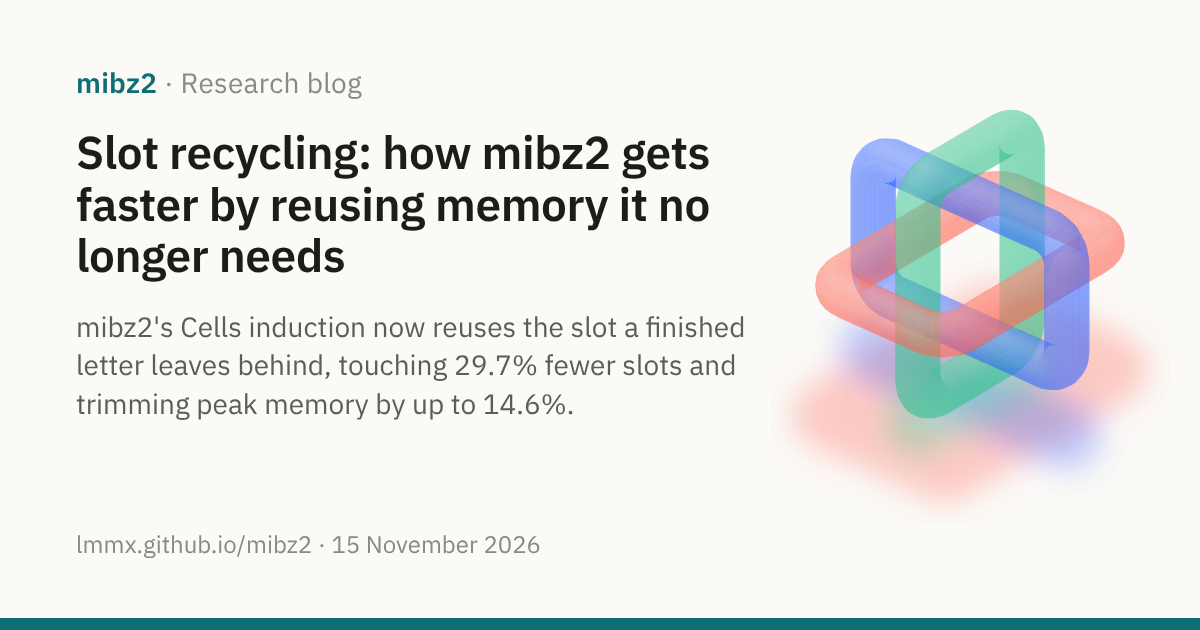
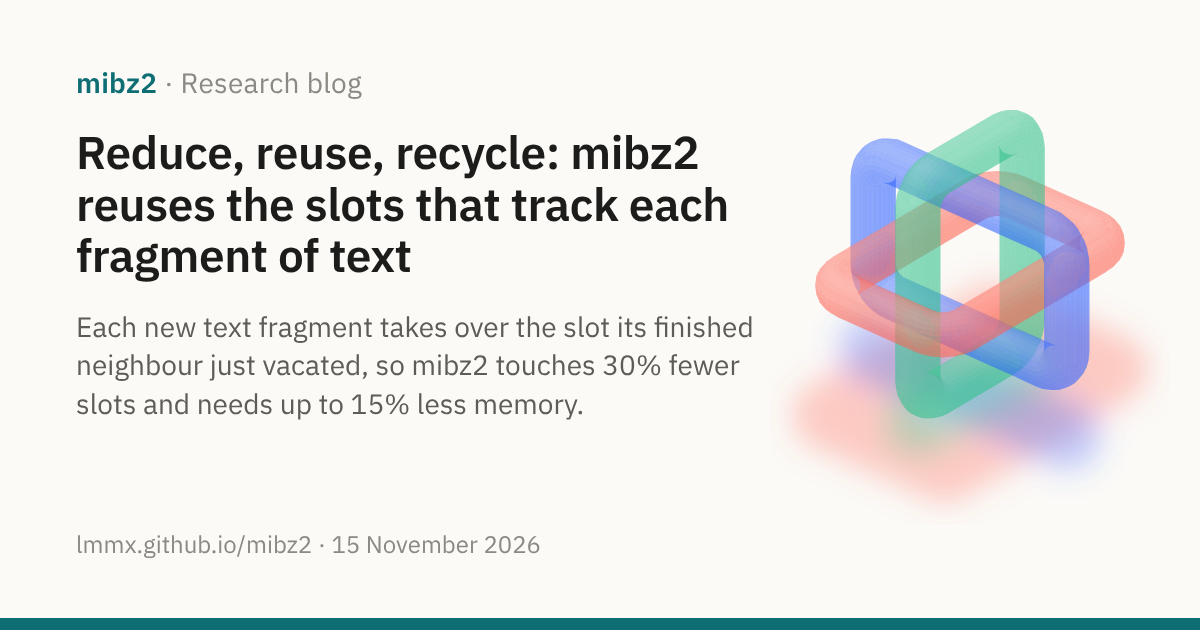
Blog: slot recycling post retitled (reduce, reuse, recycle), a plain opening, the i9 run, terms defined, figure lead-ins and fixes

Changed region(s): [[0.0617, 0.2111, 0.6167, 0.4524], [0.0617, 0.4825, 0.6475, 0.6635]]

diff --git a/docs/site/blog/2026-11-15-slot-recycling.md b/docs/site/blog/2026-11-15-slot-recycling.md
@@ -1,7 +1,7 @@
 ---
-title: "Slot recycling: how mibz2 gets faster by reusing memory it no longer needs"
+title: "Reduce, reuse, recycle: mibz2 reuses the slots that track each fragment of text"
 image: assets/social/blog-2026-11-15-slot-recycling.png
-description: "mibz2's Cells induction now reuses the slot a finished letter leaves behind, touching 29.7% fewer slots and trimming peak memory by up to 14.6%."
+description: "Each new text fragment takes over the slot its finished neighbour just vacated, so mibz2 touches 30% fewer slots and needs up to 15% less memory."
 ---
 
 <div class="post-hero" markdown>
@@ -11,9 +11,9 @@ description: "mibz2's Cells induction now reuses the slot a finished letter leav
 [mibz2 · Research blog](index.md)
 {: .post-kicker }
 
-# Slot recycling: how mibz2 gets faster by reusing memory it no longer needs
+# Reduce, reuse, recycle: mibz2 reuses the slots that track each fragment of text
 
-mibz2's Cells induction now reuses the slot a finished letter leaves behind, touching 29.7% fewer slots and trimming peak memory by up to 14.6%.
+Each new text fragment takes over the slot its finished neighbour just vacated, so mibz2 touches 30% fewer slots and needs up to 15% less memory.
 {: .post-dek }
 
 15 November 2026 · 13 min read · [Research result](#7-what-the-benchmarks-tell-us)
@@ -24,6 +24,8 @@ mibz2's Cells induction now reuses the slot a finished letter leaves behind, tou
 <div class="post-hero-art"><img src="../assets/images/hero.svg" alt=""></div>
 
 </div>
+
+One of mibz2's ways of rebuilding a block of bzip2 text works on fragments of it: pieces of the output, each standing for a stretch of the block. It keeps the bookkeeping for every fragment in a small record called a slot, 20 bytes holding the fragment's length, where its text is kept, the slot before it, and its partner slot in a second arrangement of the same fragments. When one fragment is finished, its slot is free just as the next fragment needs one, and mibz2 now hands it over instead of taking fresh memory.
 
 ## The idea in a nutshell
 
@@ -88,6 +90,8 @@ These aren't two complete copies of the decompressed text. They're two linked ar
 
 Each letter has a slot in each order.
 
+Here are both orders for a handful of letters, with each letter's two slots joined:
+
 <figure class="bf-fig">
 <p class="bf-title">Two linked orders of the same letters</p>
 <svg viewBox="0 0 720 312" role="img" aria-label="The top order holds the letters in one arrangement and the bottom order in another. Each letter has one slot in each order, and a dashed partner link joins the two. Each slot links to the slot before it, and the induction reads both orders from their fronts: A on top, B on the bottom."><text x="0" y="66" class="bf-ts">Top order</text><text x="0" y="84" class="bf-tm">A is at its front</text><text x="0" y="184" class="bf-ts">Bottom order</text><text x="0" y="202" class="bf-tm">B is at its front</text><text x="612.0" y="24" class="bf-tm" text-anchor="middle">front: read first</text><path d="M612.0 30V40" class="bf-arrow"/><text x="612.0" y="246" class="bf-tm" text-anchor="middle">front: read first</text><path d="M612.0 236V226" class="bf-arrow"/><path d="M282.0 92L502.0 166" class="bf-arrow" stroke-dasharray="4 4"/><path d="M392.0 92L282.0 166" class="bf-arrow" stroke-dasharray="4 4"/><path d="M502.0 92L612.0 166" class="bf-arrow" stroke-dasharray="4 4"/><path d="M612.0 92L392.0 166" class="bf-arrow" stroke-dasharray="4 4"/><text x="172.0" y="75" class="bf-tl" text-anchor="middle">…</text><rect x="240" y="46" width="84" height="44" rx="6" class="bf-slot"/><text x="282.0" y="74" class="bf-ts" text-anchor="middle">D</text><rect x="350" y="46" width="84" height="44" rx="6" class="bf-slot"/><text x="392.0" y="74" class="bf-ts" text-anchor="middle">C</text><rect x="460" y="46" width="84" height="44" rx="6" class="bf-slot"/><text x="502.0" y="74" class="bf-ts" text-anchor="middle">B</text><rect x="570" y="46" width="84" height="44" rx="6" class="bf-slot"/><text x="612.0" y="74" class="bf-ts" text-anchor="middle">A</text><path d="M237 68H217m5-5-5 5 5 5" class="bf-arrow"/><path d="M347 68H327m5-5-5 5 5 5" class="bf-arrow"/><path d="M457 68H437m5-5-5 5 5 5" class="bf-arrow"/><path d="M567 68H547m5-5-5 5 5 5" class="bf-arrow"/><text x="172.0" y="197" class="bf-tl" text-anchor="middle">…</text><rect x="240" y="168" width="84" height="44" rx="6" class="bf-slot"/><text x="282.0" y="196" class="bf-ts" text-anchor="middle">C</text><rect x="350" y="168" width="84" height="44" rx="6" class="bf-slot"/><text x="392.0" y="196" class="bf-ts" text-anchor="middle">A</text><rect x="460" y="168" width="84" height="44" rx="6" class="bf-slot"/><text x="502.0" y="196" class="bf-ts" text-anchor="middle">D</text><rect x="570" y="168" width="84" height="44" rx="6" class="bf-slot"/><text x="612.0" y="196" class="bf-ts" text-anchor="middle">B</text><path d="M237 190H217m5-5-5 5 5 5" class="bf-arrow"/><path d="M347 190H327m5-5-5 5 5 5" class="bf-arrow"/><path d="M457 190H437m5-5-5 5 5 5" class="bf-arrow"/><path d="M567 190H547m5-5-5 5 5 5" class="bf-arrow"/><path d="M0 278H704" class="bf-rule"/><path d="M26 300H4m5-5-5 5 5 5" class="bf-arrow"/><text x="34" y="304" class="bf-tm">each slot links to the slot before it in its order</text><path d="M366 300H392" class="bf-arrow" stroke-dasharray="4 4"/><text x="400" y="304" class="bf-tm">partner: the same letter’s slot in the other order</text></svg>
@@ -103,9 +107,11 @@ A slot is a small record in memory. In the implementation shipped before this ch
 | Word reference and length | Identifies the text represented by the piece |
 | Partner-slot reference | Connects its position in one order to the corresponding position in the other |
 
+The slot's five fields, as the code lays them out:
+
 <figure class="bf-fig">
 <p class="bf-title">A slot is 20 bytes: five 4-byte fields</p>
-<svg viewBox="0 0 720 250" role="img" aria-label="A slot of 20 bytes, five fields of 4 bytes each: bytes 0 to 4 the slot before it in its order; 4 to 8 the letter's length; 8 to 12 its word's length; 12 to 16 its word's offset; 16 to 20 the letter's slot in the other order. Bytes 8 to 16 are read as one 8-byte load. A 64-byte cache line holds 3.2 slots."><text x="40" y="22" class="bf-ttiny" text-anchor="middle">0</text><text x="168" y="22" class="bf-ttiny" text-anchor="middle">4</text><text x="296" y="22" class="bf-ttiny" text-anchor="middle">8</text><text x="424" y="22" class="bf-ttiny" text-anchor="middle">12</text><text x="552" y="22" class="bf-ttiny" text-anchor="middle">16</text><text x="680" y="22" class="bf-ttiny" text-anchor="middle">20</text><text x="32" y="22" class="bf-ttiny" text-anchor="end">byte</text><rect x="41" y="30" width="126" height="58" rx="5" class="bf-slot"/><text x="104" y="55" class="bf-ts" text-anchor="middle">slot before</text><text x="104" y="74" class="bf-tm" text-anchor="middle">4 B · link in its order</text><rect x="169" y="30" width="126" height="58" rx="5" class="bf-slot"/><text x="232" y="55" class="bf-ts" text-anchor="middle">letter’s length</text><text x="232" y="74" class="bf-tm" text-anchor="middle">4 B · positions left</text><rect x="297" y="30" width="126" height="58" rx="5" class="bf-slot"/><text x="360" y="55" class="bf-ts" text-anchor="middle">word’s length</text><text x="360" y="74" class="bf-tm" text-anchor="middle">4 B · in bytes</text><rect x="425" y="30" width="126" height="58" rx="5" class="bf-slot"/><text x="488" y="55" class="bf-ts" text-anchor="middle">word’s offset</text><text x="488" y="74" class="bf-tm" text-anchor="middle">4 B · bytes or a rule</text><rect x="553" y="30" width="126" height="58" rx="5" class="bf-slot"/><text x="616" y="55" class="bf-ts" text-anchor="middle">partner slot</text><text x="616" y="74" class="bf-tm" text-anchor="middle">4 B · in the other order</text><path d="M298 96V104H550V96M424.0 104V110" class="bf-arrow"/><text x="424.0" y="126" class="bf-tm" text-anchor="middle">the word: read as one 8-byte load</text><text x="360" y="150" class="bf-t-strong" text-anchor="middle">20 bytes, five 4-byte fields</text><path d="M0 172H720" class="bf-rule"/><text x="0" y="196" class="bf-ts">A 64-byte cache line</text><text x="0" y="214" class="bf-tm">holds 3.2 slots, so slots straddle lines</text><rect x="271" y="182" width="138" height="30" rx="4" class="bf-slot"/><text x="340" y="201" class="bf-tm" text-anchor="middle">slot 1</text><rect x="411" y="182" width="138" height="30" rx="4" class="bf-slot"/><text x="480" y="201" class="bf-tm" text-anchor="middle">slot 2</text><rect x="551" y="182" width="138" height="30" rx="4" class="bf-slot"/><text x="620" y="201" class="bf-tm" text-anchor="middle">slot 3</text><rect x="691" y="182" width="26" height="30" rx="4" class="bf-slot"/><rect x="717" y="182" width="84" height="30" rx="4" class="bf-track"/><path d="M270 218V224H718V218" class="bf-arrow"/><text x="494" y="240" class="bf-tm" text-anchor="middle">64 bytes</text><text x="760" y="201" class="bf-ttiny" text-anchor="middle">next line</text></svg>
+<svg viewBox="0 0 720 250" role="img" aria-label="A slot of 20 bytes, five fields of 4 bytes each: bytes 0 to 4 the slot before it in its order; 4 to 8 the letter's length; 8 to 12 its word's length; 12 to 16 its word's offset; 16 to 20 the letter's slot in the other order. Bytes 8 to 16 are read as one 8-byte load. A 64-byte cache line holds 3.2 slots."><text x="40" y="22" class="bf-ttiny" text-anchor="middle">0</text><text x="168" y="22" class="bf-ttiny" text-anchor="middle">4</text><text x="296" y="22" class="bf-ttiny" text-anchor="middle">8</text><text x="424" y="22" class="bf-ttiny" text-anchor="middle">12</text><text x="552" y="22" class="bf-ttiny" text-anchor="middle">16</text><text x="680" y="22" class="bf-ttiny" text-anchor="middle">20</text><text x="32" y="22" class="bf-ttiny" text-anchor="end">byte</text><rect x="41" y="30" width="126" height="58" rx="5" class="bf-slot"/><text x="104" y="55" class="bf-ts" text-anchor="middle">slot before</text><text x="104" y="74" class="bf-tm" text-anchor="middle">4 B · link in its order</text><rect x="169" y="30" width="126" height="58" rx="5" class="bf-slot"/><text x="232" y="55" class="bf-ts" text-anchor="middle">letter’s length</text><text x="232" y="74" class="bf-tm" text-anchor="middle">4 B · positions left</text><rect x="297" y="30" width="126" height="58" rx="5" class="bf-slot"/><text x="360" y="55" class="bf-ts" text-anchor="middle">word’s length</text><text x="360" y="74" class="bf-tm" text-anchor="middle">4 B · in bytes</text><rect x="425" y="30" width="126" height="58" rx="5" class="bf-slot"/><text x="488" y="55" class="bf-ts" text-anchor="middle">word’s offset</text><text x="488" y="74" class="bf-tm" text-anchor="middle">4 B · bytes or a rule</text><rect x="553" y="30" width="126" height="58" rx="5" class="bf-slot"/><text x="616" y="55" class="bf-ts" text-anchor="middle">partner slot</text><text x="616" y="74" class="bf-tm" text-anchor="middle">4 B · in the other order</text><path d="M298 96V104H550V96M424.0 104V110" class="bf-arrow"/><text x="424.0" y="126" class="bf-tm" text-anchor="middle">the word: read as one 8-byte load</text><text x="360" y="150" class="bf-t-strong" text-anchor="middle">20 bytes, five 4-byte fields</text><path d="M0 172H720" class="bf-rule"/><text x="0" y="196" class="bf-ts">A 64-byte cache line</text><text x="0" y="214" class="bf-tm">holds 3.2 slots, so slots straddle lines</text><rect x="251" y="182" width="118" height="30" rx="4" class="bf-slot"/><text x="310" y="201" class="bf-tm" text-anchor="middle">slot 1</text><rect x="371" y="182" width="118" height="30" rx="4" class="bf-slot"/><text x="430" y="201" class="bf-tm" text-anchor="middle">slot 2</text><rect x="491" y="182" width="118" height="30" rx="4" class="bf-slot"/><text x="550" y="201" class="bf-tm" text-anchor="middle">slot 3</text><rect x="611" y="182" width="22" height="30" rx="4" class="bf-slot"/><rect x="633" y="182" width="72" height="30" rx="4" class="bf-track"/><path d="M250 218V224H634V218" class="bf-arrow"/><text x="442" y="240" class="bf-tm" text-anchor="middle">64 bytes</text><text x="670" y="201" class="bf-ttiny" text-anchor="middle">next</text></svg>
 <figcaption>The layout as <code>src/cells.rs</code> documents it, unchanged by #408. Every field is a 4-byte offset or length. The table above lists the word’s length and offset as one row, since the induction reads them together. Below, to scale: 64 bytes hold three whole slots and part of a fourth.</figcaption>
 </figure>
 
@@ -182,9 +188,11 @@ Previously, the next cell cut from A would receive a fresh slot in the bottom or
 
 Now it receives **B's former front slot in that same order**.
 
+Here is the bottom order after B ends, before and after the change:
+
 <figure class="bf-fig">
 <p class="bf-title">The bottom order after B ends: where A’s next cell goes</p>
-<svg viewBox="0 0 720 346" role="img" aria-label="The bottom order's slots in memory, after the step where B ends and A goes on. A's slot now holds the cell. Before #408, A's next cell was promised a fresh slot past the end of the letters' slots, in memory never touched before, and B's dead front slot was left. With #408, A's next cell is promised B's old front slot, which was just read, and the region ends at the letters' slots."><text x="0" y="14" class="bf-ts">Before #408: a fresh slot past the letters</text><text x="40.0" y="95" class="bf-tl" text-anchor="middle">…</text><rect x="84" y="66" width="80" height="46" rx="6" class="bf-slot"/><text x="124.0" y="86" class="bf-ts" text-anchor="middle">D</text><rect x="168" y="66" width="80" height="46" rx="6" class="bf-slot"/><text x="208.0" y="86" class="bf-ts" text-anchor="middle">A</text><text x="208.0" y="103" class="bf-tm" text-anchor="middle">now the cell</text><rect x="252" y="66" width="80" height="46" rx="6" class="bf-slot"/><text x="292.0" y="86" class="bf-ts" text-anchor="middle">C</text><rect x="336" y="66" width="80" height="46" rx="6" class="bf-track"/><text x="376.0" y="86" class="bf-ts" text-anchor="middle">B</text><text x="376.0" y="103" class="bf-tm" text-anchor="middle">dead, left</text><text x="376.0" y="130" class="bf-tm" text-anchor="middle">the front</text><text x="376.0" y="145" class="bf-tm" text-anchor="middle">just read</text><path d="M418.0 56V122" class="bf-tick"/><text x="426.0" y="130" class="bf-tm">end of the letters’ slots</text><rect x="426.0" y="62" width="286.0" height="54" rx="8" class="bf-lane"/><rect x="436.0" y="66" width="96" height="46" rx="6" class="bf-pill-ready"/><text x="484.0" y="86" class="bf-pill-ready-t" text-anchor="middle">A’s next</text><text x="484.0" y="103" class="bf-tm" text-anchor="middle">fresh slot</text><text x="544.0" y="86" class="bf-tm">room for one fresh</text><text x="544.0" y="103" class="bf-tm">slot per cell</text><path d="M208.0 62C208.0 26 484.0 26 484.0 60m-5-6 5 6 5-6" class="bf-arrow"/><text x="346.0" y="38" class="bf-tm" text-anchor="middle">A’s next cell is promised a slot never touched before</text><path d="M0 166H720" class="bf-rule"/><text x="0" y="192" class="bf-ts">With #408: the dead front slot is recycled</text><text x="40.0" y="273" class="bf-tl" text-anchor="middle">…</text><rect x="84" y="244" width="80" height="46" rx="6" class="bf-slot"/><text x="124.0" y="264" class="bf-ts" text-anchor="middle">D</text><rect x="168" y="244" width="80" height="46" rx="6" class="bf-slot"/><text x="208.0" y="264" class="bf-ts" text-anchor="middle">A</text><text x="208.0" y="281" class="bf-tm" text-anchor="middle">now the cell</text><rect x="252" y="244" width="80" height="46" rx="6" class="bf-slot"/><text x="292.0" y="264" class="bf-ts" text-anchor="middle">C</text><rect x="336" y="244" width="80" height="46" rx="6" class="bf-card-hi"/><text x="376.0" y="264" class="bf-t-green" text-anchor="middle">A’s next</text><text x="376.0" y="281" class="bf-tm" text-anchor="middle">was B’s</text><text x="376.0" y="308" class="bf-tm" text-anchor="middle">the front</text><text x="376.0" y="323" class="bf-tm" text-anchor="middle">just read</text><path d="M418.0 234V300" class="bf-tick"/><text x="426.0" y="308" class="bf-tm">end of the letters’ slots</text><path d="M208.0 240C208.0 204 376.0 204 376.0 238m-5-6 5 6 5-6" class="bf-act"/><text x="292.0" y="216" class="bf-t-green" text-anchor="middle">promised B’s old slot</text><text x="426.0" y="264" class="bf-t">no slot past here</text><text x="426.0" y="281" class="bf-tm">the region is letters × 20 B</text></svg>
+<svg viewBox="0 0 720 384" role="img" aria-label="The bottom order's slots in memory, after the step where B ends and A goes on. A's slot now holds the cell. Before #408, A's next cell was promised a fresh slot past the end of the letters' slots, in memory never touched before, and B's dead front slot was left. With #408, A's next cell is promised B's old front slot, which was just read, and the region ends at the letters' slots."><text x="0" y="14" class="bf-ts">Before #408: a fresh slot past the letters</text><text x="40.0" y="113" class="bf-tl" text-anchor="middle">…</text><rect x="84" y="84" width="80" height="46" rx="6" class="bf-slot"/><text x="124.0" y="104" class="bf-ts" text-anchor="middle">D</text><rect x="168" y="84" width="80" height="46" rx="6" class="bf-slot"/><text x="208.0" y="104" class="bf-ts" text-anchor="middle">A</text><text x="208.0" y="121" class="bf-tm" text-anchor="middle">now the cell</text><rect x="252" y="84" width="80" height="46" rx="6" class="bf-slot"/><text x="292.0" y="104" class="bf-ts" text-anchor="middle">C</text><rect x="336" y="84" width="80" height="46" rx="6" class="bf-track"/><text x="376.0" y="104" class="bf-ts" text-anchor="middle">B</text><text x="376.0" y="121" class="bf-tm" text-anchor="middle">dead, left</text><text x="376.0" y="148" class="bf-tm" text-anchor="middle">the front</text><text x="376.0" y="163" class="bf-tm" text-anchor="middle">just read</text><path d="M418.0 74V140" class="bf-tick"/><text x="426.0" y="148" class="bf-tm">end of the letters’ slots</text><rect x="426.0" y="80" width="286.0" height="54" rx="8" class="bf-lane"/><rect x="436.0" y="84" width="96" height="46" rx="6" class="bf-pill-ready"/><text x="484.0" y="104" class="bf-pill-ready-t" text-anchor="middle">A’s next</text><text x="484.0" y="121" class="bf-tm" text-anchor="middle">fresh slot</text><text x="544.0" y="104" class="bf-tm">room for one fresh</text><text x="544.0" y="121" class="bf-tm">slot per cell</text><path d="M208.0 80C208.0 50 484.0 50 484.0 78m-5-6 5 6 5-6" class="bf-arrow"/><text x="346.0" y="36" class="bf-tm" text-anchor="middle">A’s next cell is promised a slot never touched before</text><path d="M0 186H720" class="bf-rule"/><text x="0" y="212" class="bf-ts">With #408: the dead front slot is recycled</text><text x="40.0" y="311" class="bf-tl" text-anchor="middle">…</text><rect x="84" y="282" width="80" height="46" rx="6" class="bf-slot"/><text x="124.0" y="302" class="bf-ts" text-anchor="middle">D</text><rect x="168" y="282" width="80" height="46" rx="6" class="bf-slot"/><text x="208.0" y="302" class="bf-ts" text-anchor="middle">A</text><text x="208.0" y="319" class="bf-tm" text-anchor="middle">now the cell</text><rect x="252" y="282" width="80" height="46" rx="6" class="bf-slot"/><text x="292.0" y="302" class="bf-ts" text-anchor="middle">C</text><rect x="336" y="282" width="80" height="46" rx="6" class="bf-card-hi"/><text x="376.0" y="302" class="bf-t-green" text-anchor="middle">A’s next</text><text x="376.0" y="319" class="bf-tm" text-anchor="middle">was B’s</text><text x="376.0" y="346" class="bf-tm" text-anchor="middle">the front</text><text x="376.0" y="361" class="bf-tm" text-anchor="middle">just read</text><path d="M418.0 272V338" class="bf-tick"/><text x="426.0" y="346" class="bf-tm">end of the letters’ slots</text><path d="M208.0 278C208.0 248 376.0 248 376.0 276m-5-6 5 6 5-6" class="bf-act"/><text x="292.0" y="234" class="bf-t-green" text-anchor="middle">promised B’s old slot</text><text x="426.0" y="302" class="bf-t">no slot past here</text><text x="426.0" y="319" class="bf-tm">the region is letters × 20 B</text></svg>
 <figcaption>Conceptual, after the step in the last figure. Slots are in memory order; the front is the slot the induction reads next, and it moves left as the induction goes on. The promised slot is linked in as the slot before A’s cell, so A’s next cell will be read there. The cell is also written to B’s slot in the top order (not drawn). When A ends instead, the same happens in the top order, with A’s front slot.</figcaption>
 </figure>
 
@@ -212,7 +220,7 @@ That is why the name *slot recycling* is so precise.
 
 ## 6. How much does this save?
 
-The builder [counted](https://github.com/lmmx/mibz2/pull/408) what happened across the 196 Wikidata blocks admitted by Cells in the benchmark corpus.
+The builder, the agent that implemented #408, [counted](https://github.com/lmmx/mibz2/pull/408) what happened across the 196 Wikidata blocks admitted by Cells in the benchmark corpus.
 
 The result was substantial:
 
@@ -221,6 +229,8 @@ The result was substantial:
 | Slots touched | 31,547,362 | 22,181,734 |
 | Fresh slots required | 9,365,628 | 0 |
 | Reduction in touched slots | — | **29.7%** |
+
+The same counts, drawn to scale:
 
 <figure class="bf-fig">
 <p class="bf-title">Slots the induction touches, over the 196 Wikidata blocks</p>
@@ -270,6 +280,8 @@ For Wikidata:
 | 2 | −0.2% | −12.5% |
 | 4 | **−1.7%** | **−14.6%** |
 
+The same run with its intervals, and the memory in megabytes:
+
 <figure class="bf-fig">
 <p class="bf-title">The decoder on Wikidata, with and without slot recycling</p>
 <svg viewBox="0 0 720 220" role="img" aria-label="Left: wall-time change with 95% intervals. At 1 thread +0.5% (−0.2%, +1.3%); at 2 threads −0.2% (−1.7%, +1.4%); at 4 threads −1.7% (−3.3%, −0.1%), the only interval that excludes zero. Right: peak memory from base to head, 33 to 30 MB (−9.7%), 71 to 62 MB (−12.5%) and 109 to 96 MB (−14.6%) at 1, 2 and 4 threads."><text x="0" y="14" class="bf-ts">Wall time, head against base</text><text x="380" y="14" class="bf-ts">Peak memory, base → head</text><text x="0" y="56" class="bf-t">1 thread</text><path d="M260.0 52H335.0M260.0 47v10M335.0 47v10" class="bf-quiet-ink"/><circle cx="295.0" cy="52" r="5" class="bf-head-ink"/><text x="295.0" y="41" class="bf-t-strong" text-anchor="middle">+0.5%</text><text x="380" y="56" class="bf-t">1 thread</text><rect x="460" y="39" width="55.0" height="11" rx="2" class="bf-track"/><rect x="460" y="53" width="50.0" height="11" rx="2" class="bf-green"/><text x="521.0" y="49" class="bf-tm">33 MB</text><text x="516.0" y="63" class="bf-t-green">30 MB, −9.7%</text><text x="0" y="100" class="bf-t">2 threads</text><path d="M185.0 96H340.0M185.0 91v10M340.0 91v10" class="bf-quiet-ink"/><circle cx="260.0" cy="96" r="5" class="bf-head-ink"/><text x="260.0" y="85" class="bf-t-strong" text-anchor="middle">−0.2%</text><text x="380" y="100" class="bf-t">2 threads</text><rect x="460" y="83" width="118.3" height="11" rx="2" class="bf-track"/><rect x="460" y="97" width="103.3" height="11" rx="2" class="bf-green"/><text x="584.3" y="93" class="bf-tm">71 MB</text><text x="569.3" y="107" class="bf-t-green">62 MB, −12.5%</text><text x="0" y="144" class="bf-t">4 threads</text><path d="M105.0 140H265.0M105.0 135v10M265.0 135v10" class="bf-act"/><circle cx="185.0" cy="140" r="5" class="bf-green"/><text x="185.0" y="129" class="bf-t-green" text-anchor="middle">−1.7%</text><text x="380" y="144" class="bf-t">4 threads</text><rect x="460" y="127" width="181.7" height="11" rx="2" class="bf-track"/><rect x="460" y="141" width="160.0" height="11" rx="2" class="bf-green"/><text x="647.7" y="137" class="bf-tm">109 MB</text><text x="626.0" y="151" class="bf-t-green">96 MB, −14.6%</text><path d="M270 30V162" class="bf-axis"/><path d="M70 162H370" class="bf-axis"/><path d="M70 162v4" class="bf-axis"/><text x="70" y="179" class="bf-ttiny" text-anchor="middle">−4%</text><path d="M120 162v4" class="bf-axis"/><text x="120" y="179" class="bf-ttiny" text-anchor="middle">−3%</text><path d="M170 162v4" class="bf-axis"/><text x="170" y="179" class="bf-ttiny" text-anchor="middle">−2%</text><path d="M220 162v4" class="bf-axis"/><text x="220" y="179" class="bf-ttiny" text-anchor="middle">−1%</text><path d="M270 162v4" class="bf-axis"/><text x="270" y="179" class="bf-ttiny" text-anchor="middle">0%</text><path d="M320 162v4" class="bf-axis"/><text x="320" y="179" class="bf-ttiny" text-anchor="middle">+1%</text><path d="M370 162v4" class="bf-axis"/><text x="370" y="179" class="bf-ttiny" text-anchor="middle">+2%</text><text x="220" y="195" class="bf-tm" text-anchor="middle">← faster · slower →</text><rect x="460" y="168" width="12" height="8" rx="2" class="bf-track"/><text x="478" y="176" class="bf-tm">base</text><rect x="520" y="168" width="12" height="8" rx="2" class="bf-green"/><text x="538" y="176" class="bf-tm">head, with #408</text></svg>
@@ -286,6 +298,8 @@ This pattern is consistent with the intended mechanism: reducing the working set
 
 But we should be precise about what has been established. The CI runner isn't the i9 workstation. It has a different cache hierarchy and different core-sharing conditions. The benchmark demonstrates a benefit on the tested machine, but it doesn't yet establish how much slot recycling helps the i9's known [concurrency plateau](2026-11-07-why-mibz2-stops-scaling.md).
 
+[A later paired run on the i9](https://github.com/lmmx/mibz2/pull/145#issuecomment-6894519106), a 10-core desktop, shows the gain growing with the number of Cells workers: no change at one or two threads, 4% less CPU at four, and 5% faster wall time at five (interval 4.7% to 6.1%). Peak memory was lower at every thread count from one to five, and nothing changed at six or more threads, where mibz2 uses its team path instead of Cells.
+
 There's also a secondary-workload caveat: the `records` corpus showed a four-thread regression in the same CI run. Correctness was preserved, but the change is not a universal speedup.
 
 The valuable thing is that **the memory reduction is substantial without requiring additional expensive computation**. The extra bookkeeping is minimal, with the front positions already available to the induction.
@@ -294,7 +308,7 @@ The valuable thing is that **the memory reduction is substantial without requiri
 
 The terminology initially caused some confusion because two related research ideas both used the word *elision*.
 
-[MONODROMY](https://github.com/lmmx/mibz2/pull/410) investigated whether individual fields inside existing slots could be left unwritten or reconstructed from other information.
+[MONODROMY](https://github.com/lmmx/mibz2/pull/410), the team's mathematics agent, investigated whether individual fields inside existing slots could be left unwritten or reconstructed from other information.
 
 It found that approximately 25.5% of the induction's stored bytes were never subsequently read, and that certain mathematical identities could account for an even larger fraction.
 
@@ -362,7 +376,7 @@ The successful change therefore sits at the intersection of mathematics and syst
 
 It also points towards the next questions.
 
-MONODROMY has identified a possible asymmetric layout with 20-byte top slots and 8-byte bottom slots. That could reduce the induction's modelled cache-line footprint by another 25%, although it introduces an additional dependent load on many accesses. It remains unmeasured, and the earlier [failed 16-byte layout](https://github.com/lmmx/mibz2/pull/398) is a warning that compactness isn't automatically speed.
+MONODROMY has identified a possible asymmetric layout with 20-byte top slots and 8-byte bottom slots. That could mean up to 25% fewer induction lines (an estimate made before recycling), although it introduces an additional dependent load on many accesses. It remains unmeasured, and the earlier [failed 16-byte layout](https://github.com/lmmx/mibz2/pull/398) is a warning that compactness isn't automatically speed.
 
 Meanwhile, measuring how memory traffic scales after slot recycling can help determine whether Cells is becoming competitive at higher thread counts.
 

diff --git a/docs/site/blog/index.md b/docs/site/blog/index.md
@@ -8,7 +8,7 @@ What mibz2's experiments are finding, and where they go next. The evidence behin
 post is in the [journals](../background/journals.md) and the pull requests they link.
 
 <div class="post-list">
-<a class="post-card" href="2026-11-15-slot-recycling.md"><img src="../assets/social/blog-2026-11-15-slot-recycling.png" alt="" loading="lazy"><span class="post-card-text"><span class="post-card-date">15 November 2026 · Research result</span><span class="post-card-title">Slot recycling: how mibz2 gets faster by reusing memory it no longer needs</span><span class="post-card-dek">mibz2's Cells induction now reuses the slot a finished letter leaves behind, touching 29.7% fewer slots and trimming peak memory by up to 14.6%.</span></span></a>
+<a class="post-card" href="2026-11-15-slot-recycling.md"><img src="../assets/social/blog-2026-11-15-slot-recycling.png" alt="" loading="lazy"><span class="post-card-text"><span class="post-card-date">15 November 2026 · Research result</span><span class="post-card-title">Reduce, reuse, recycle: mibz2 reuses the slots that track each fragment of text</span><span class="post-card-dek">Each new text fragment takes over the slot its finished neighbour just vacated, so mibz2 touches 30% fewer slots and needs up to 15% less memory.</span></span></a>
 <a class="post-card" href="2026-11-12-rauzy-technical-companion.md"><img src="../assets/social/blog-2026-11-12-rauzy-technical-companion.png" alt="" loading="lazy"><span class="post-card-text"><span class="post-card-date">12 November 2026 · Research in progress</span><span class="post-card-title">Reconstructing text from compact programs</span><span class="post-card-dek">This technical companion traces how compact word programs reconstruct text from the BWT, including the costs and limits of building and expanding them.</span></span></a>
 <a class="post-card" href="2026-11-10-rauzy-veech-reconstruction.md"><img src="../assets/social/blog-2026-11-10-rauzy-veech-reconstruction.png" alt="" loading="lazy"><span class="post-card-text"><span class="post-card-date">10 November 2026 · Research in progress</span><span class="post-card-title">A new way back from the BWT</span><span class="post-card-dek">An experimental mibz2 kernel rebuilds bzip2 text without a row-by-row walk, from reusable word rules that form the block's Lyndon tree.</span></span></a>
 <a class="post-card" href="2026-11-09-pit-crew-service-threads.md"><img src="../assets/social/blog-2026-11-09-pit-crew-service-threads.png" alt="" loading="lazy"><span class="post-card-text"><span class="post-card-date">9 November 2026 · Research in progress</span><span class="post-card-title">mibz2 gets a pit crew</span><span class="post-card-dek">Handing each block's serial steps to two dedicated threads gives mibz2 a rare double win, decoding 4.5% faster on ten cores with 13% less CPU.</span></span></a>
